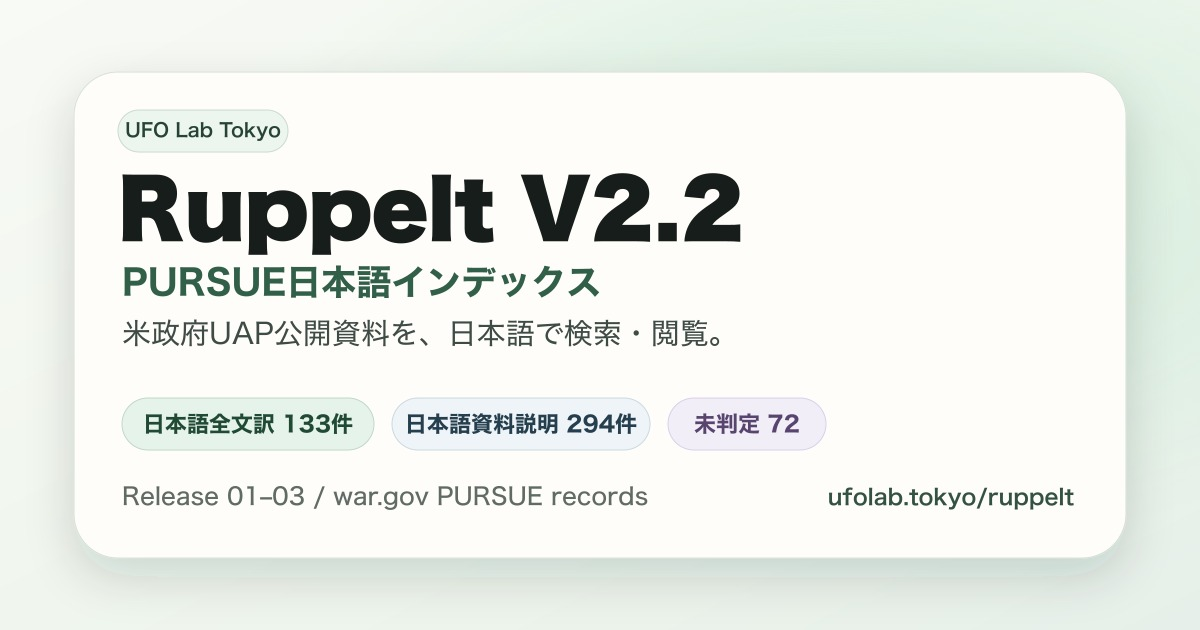
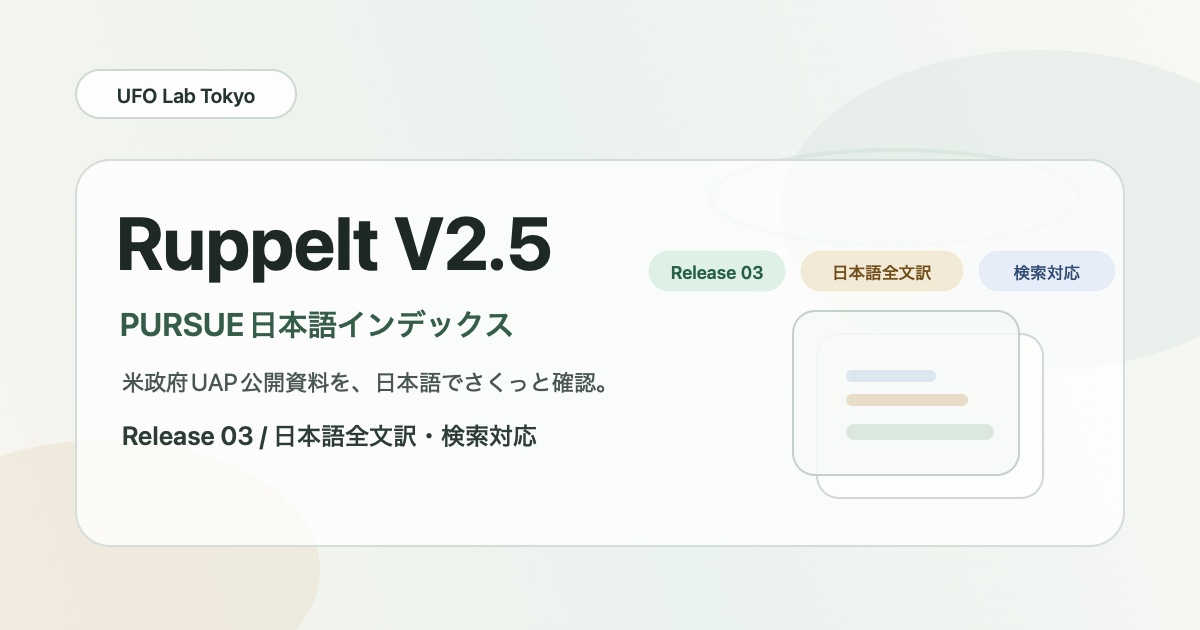
Update Ruppelt to v2.5

diff --git a/app/ruppelt/page.tsx b/app/ruppelt/page.tsx
@@ -19,7 +19,7 @@ const statusDashboardOrder: StatusDashboardKey[] = [
   "unreviewed",
 ];
 // Legacy Vercel build guard compatibility marker: Ruppelt V2.0.
-const ruppeltOgpImage = `${siteUrl}/ogp-ruppelt-v22.jpg`;
+const ruppeltOgpImage = `${siteUrl}/ogp-ruppelt-v25.jpg`;
 const ruppeltSocialUrl = `${siteUrl}/ruppelt?xcard=v22`;
 
 function getStatusDashboardLabel(status: StatusDashboardKey) {
@@ -38,13 +38,13 @@ function getFullTextRecordIds() {
 }
 
 export const metadata: Metadata = {
-  title: "Ruppelt V2.2 | Ruppelt V2.2 - PURSUE日本語インデックス",
+  title: "Ruppelt V2.5 | Ruppelt V2.5 - PURSUE日本語インデックス",
   description: "アメリカ政府UAP公開資料を、日本語でさくっと確認できる資料ブラウザです。",
   alternates: {
     canonical: "/ruppelt",
   },
   openGraph: {
-    title: "Ruppelt V2.2 - PURSUE日本語インデックス",
+    title: "Ruppelt V2.5 - PURSUE日本語インデックス",
     description: "アメリカ政府UAP公開資料をスマホでさくっと確認。",
     url: ruppeltSocialUrl,
     siteName: "UFO Lab Tokyo",
@@ -53,7 +53,7 @@ export const metadata: Metadata = {
         url: ruppeltOgpImage,
         width: 1200,
         height: 630,
-        alt: "Ruppelt V2.2 - PURSUE日本語インデックス",
+        alt: "Ruppelt V2.5 - PURSUE日本語インデックス",
         type: "image/jpeg",
       },
     ],
@@ -61,12 +61,12 @@ export const metadata: Metadata = {
   },
   twitter: {
     card: "summary_large_image",
-    title: "Ruppelt V2.2 - PURSUE日本語インデックス",
+    title: "Ruppelt V2.5 - PURSUE日本語インデックス",
     description: "アメリカ政府UAP公開資料をスマホでさくっと確認。",
     images: [ruppeltOgpImage],
   },
   other: {
-    "twitter:image:alt": "Ruppelt V2.2 - PURSUE日本語インデックス",
+    "twitter:image:alt": "Ruppelt V2.5 - PURSUE日本語インデックス",
   },
 };
 
@@ -110,7 +110,7 @@ export default function RuppeltPage() {
           </div>
           <span className="sr-only">{siteConfig.shortName}</span>
         </div>
-        <h1>Ruppelt V2.2</h1>
+        <h1>Ruppelt V2.5</h1>
         <p className="tagline">PURSUE日本語インデックス</p>
         <p className="lead">アメリカ政府UAP公開資料をスマホでさくっと確認。</p>
         <p className="ruppelt-kean-note">

diff --git a/app/ruppelt/lp/page.tsx b/app/ruppelt/lp/page.tsx
@@ -9,10 +9,10 @@ const appHref = "/ruppelt";
 const brandHref = "/";
 const appUrl = `${siteUrl}${appHref}`;
 const lpUrl = `${siteUrl}/ruppelt/lp`;
-const ruppeltOgpImage = `${siteUrl}/ogp-ruppelt-v22.jpg`;
+const ruppeltOgpImage = `${siteUrl}/ogp-ruppelt-v25.jpg`;
 const ruppeltLpSocialUrl = `${siteUrl}/ruppelt/lp?xcard=v22`;
 
-const metaTitle = "Ruppelt V2.2｜アメリカ政府UAP・UFO機密解除資料を日本語で検索";
+const metaTitle = "Ruppelt V2.5｜アメリカ政府UAP・UFO機密解除資料を日本語で検索";
 const metaDescription =
   "PURSUEで公開されたアメリカ政府のUAP・UFO機密解除資料を、日本語要約・資料検索・公開ステータスで確認できるビューアー。FBI、NASA、国防総省、国務省などの一次資料にスマホですばやくアクセスできます。";
 
@@ -106,7 +106,7 @@ export const metadata: Metadata = {
         url: ruppeltOgpImage,
         width: 1200,
         height: 630,
-        alt: "Ruppelt V2.2 - PURSUE日本語インデックス",
+        alt: "Ruppelt V2.5 - PURSUE日本語インデックス",
         type: "image/jpeg",
       },
     ],
@@ -119,15 +119,15 @@ export const metadata: Metadata = {
     images: [ruppeltOgpImage],
   },
   other: {
-    "twitter:image:alt": "Ruppelt V2.2 - PURSUE日本語インデックス",
+    "twitter:image:alt": "Ruppelt V2.5 - PURSUE日本語インデックス",
   },
 };
 
 const ruppeltLpJsonLd = {
   "@context": "https://schema.org",
   "@type": "WebApplication",
-  name: "Ruppelt V2.2",
-  alternateName: "Ruppelt V2.2 - アメリカ政府UAP・UFO機密解除資料ビューアー",
+  name: "Ruppelt V2.5",
+  alternateName: "Ruppelt V2.5 - アメリカ政府UAP・UFO機密解除資料ビューアー",
   applicationCategory: "ReferenceApplication",
   operatingSystem: "Web",
   url: appUrl,

diff --git a/lib/brandHomeContent.ts b/lib/brandHomeContent.ts
@@ -30,7 +30,7 @@ export const brandHomeContent = {
     },
     mission: "テクノロジーの魔法で、UFOコミュニティに貢献する",
     featuredApp: {
-      name: "Ruppelt V2.2",
+      name: "Ruppelt V2.5",
       description: "PURSUE資料の日本語全文訳と検索に対応した資料ブラウザ",
       href: "/ruppelt",
       note: "Ruppelt とは？",
@@ -75,8 +75,8 @@ export const brandHomeContent = {
     products: [
       {
         version: "Version 2.2",
-        name: "Ruppelt V2.2",
-        title: "Ruppelt V2.2 – PURSUE日本語インデックス",
+        name: "Ruppelt V2.5",
+        title: "Ruppelt V2.5 – PURSUE日本語インデックス",
         href: "/ruppelt",
         cta: "Ruppeltを開く",
       },
@@ -163,7 +163,7 @@ export const brandHomeContent = {
     },
     mission: "Contributing to the UFO community through the magic of technology.",
     featuredApp: {
-      name: "Ruppelt V2.2",
+      name: "Ruppelt V2.5",
       description: "A records browser with Japanese full-text translations and search for PURSUE documents.",
       href: "/ruppelt",
       note: "What is Ruppelt?",
@@ -210,8 +210,8 @@ export const brandHomeContent = {
     products: [
       {
         version: "Version 2.2",
-        name: "Ruppelt V2.2",
-        title: "Ruppelt V2.2 – UAP Public Records Viewer",
+        name: "Ruppelt V2.5",
+        title: "Ruppelt V2.5 – UAP Public Records Viewer",
         href: "/ruppelt",
         cta: "Open Ruppelt",
       },
